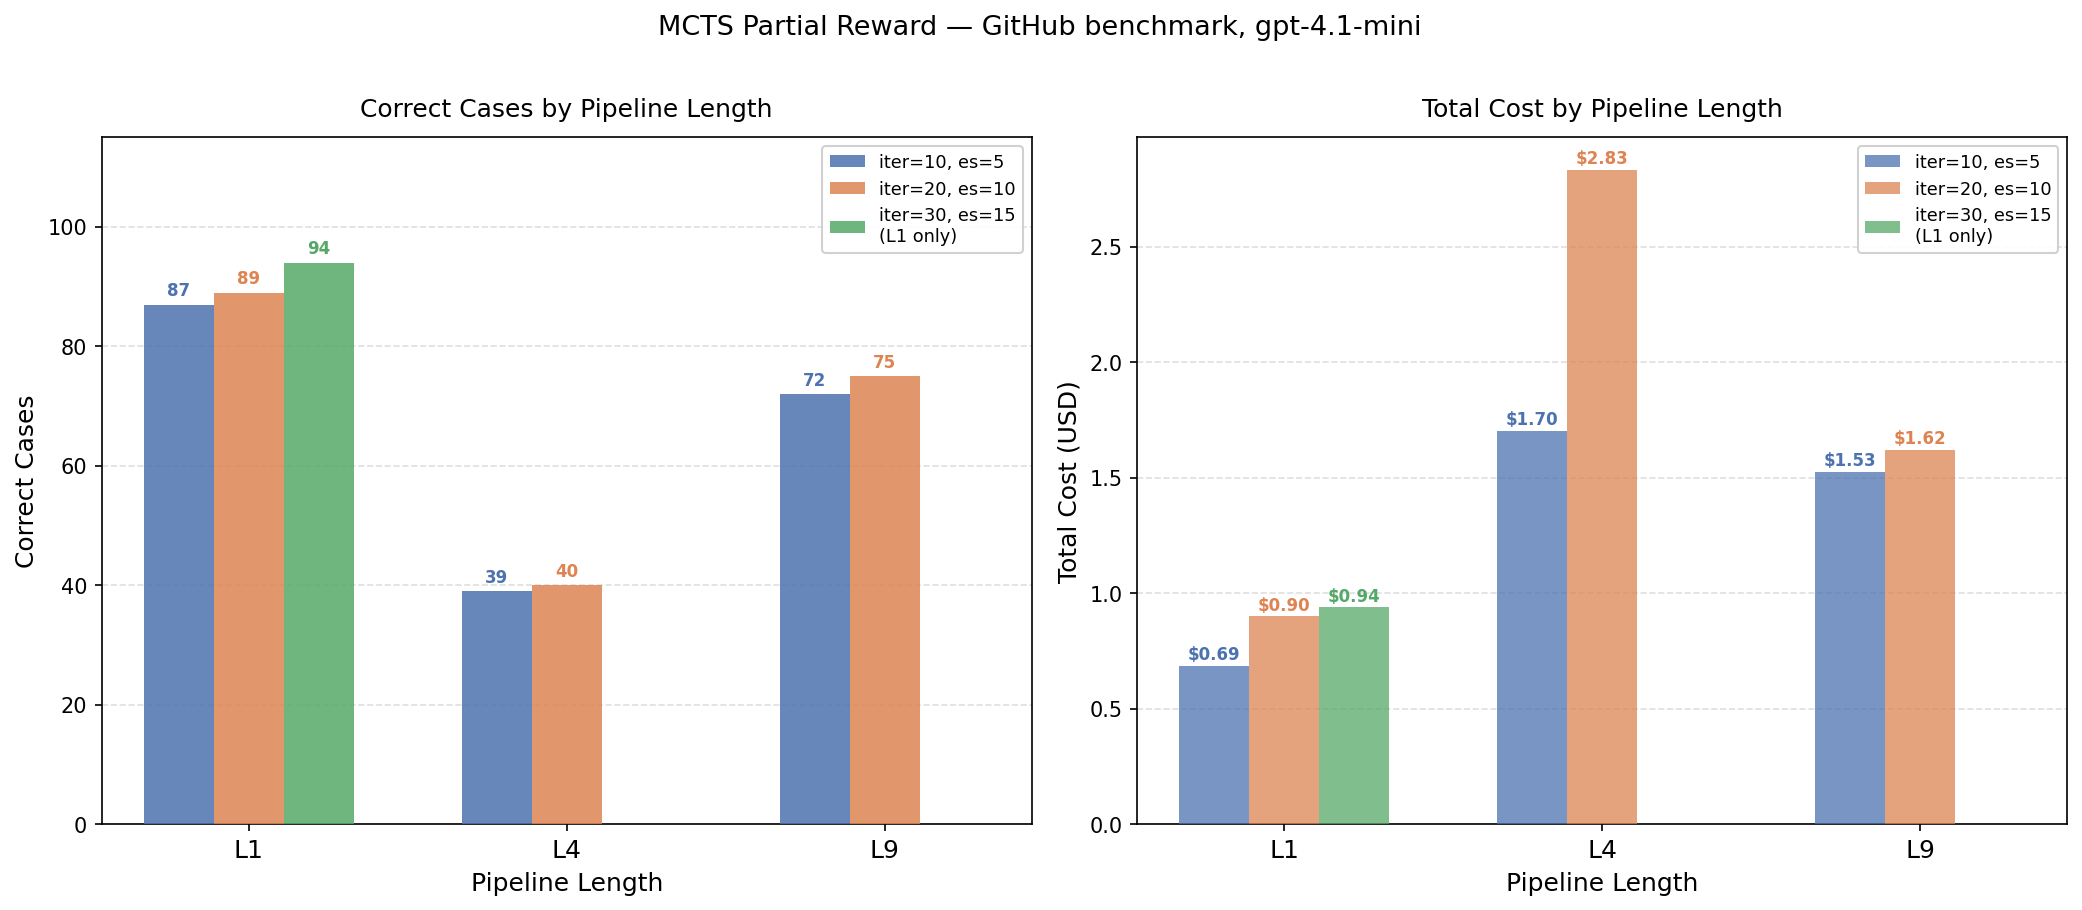
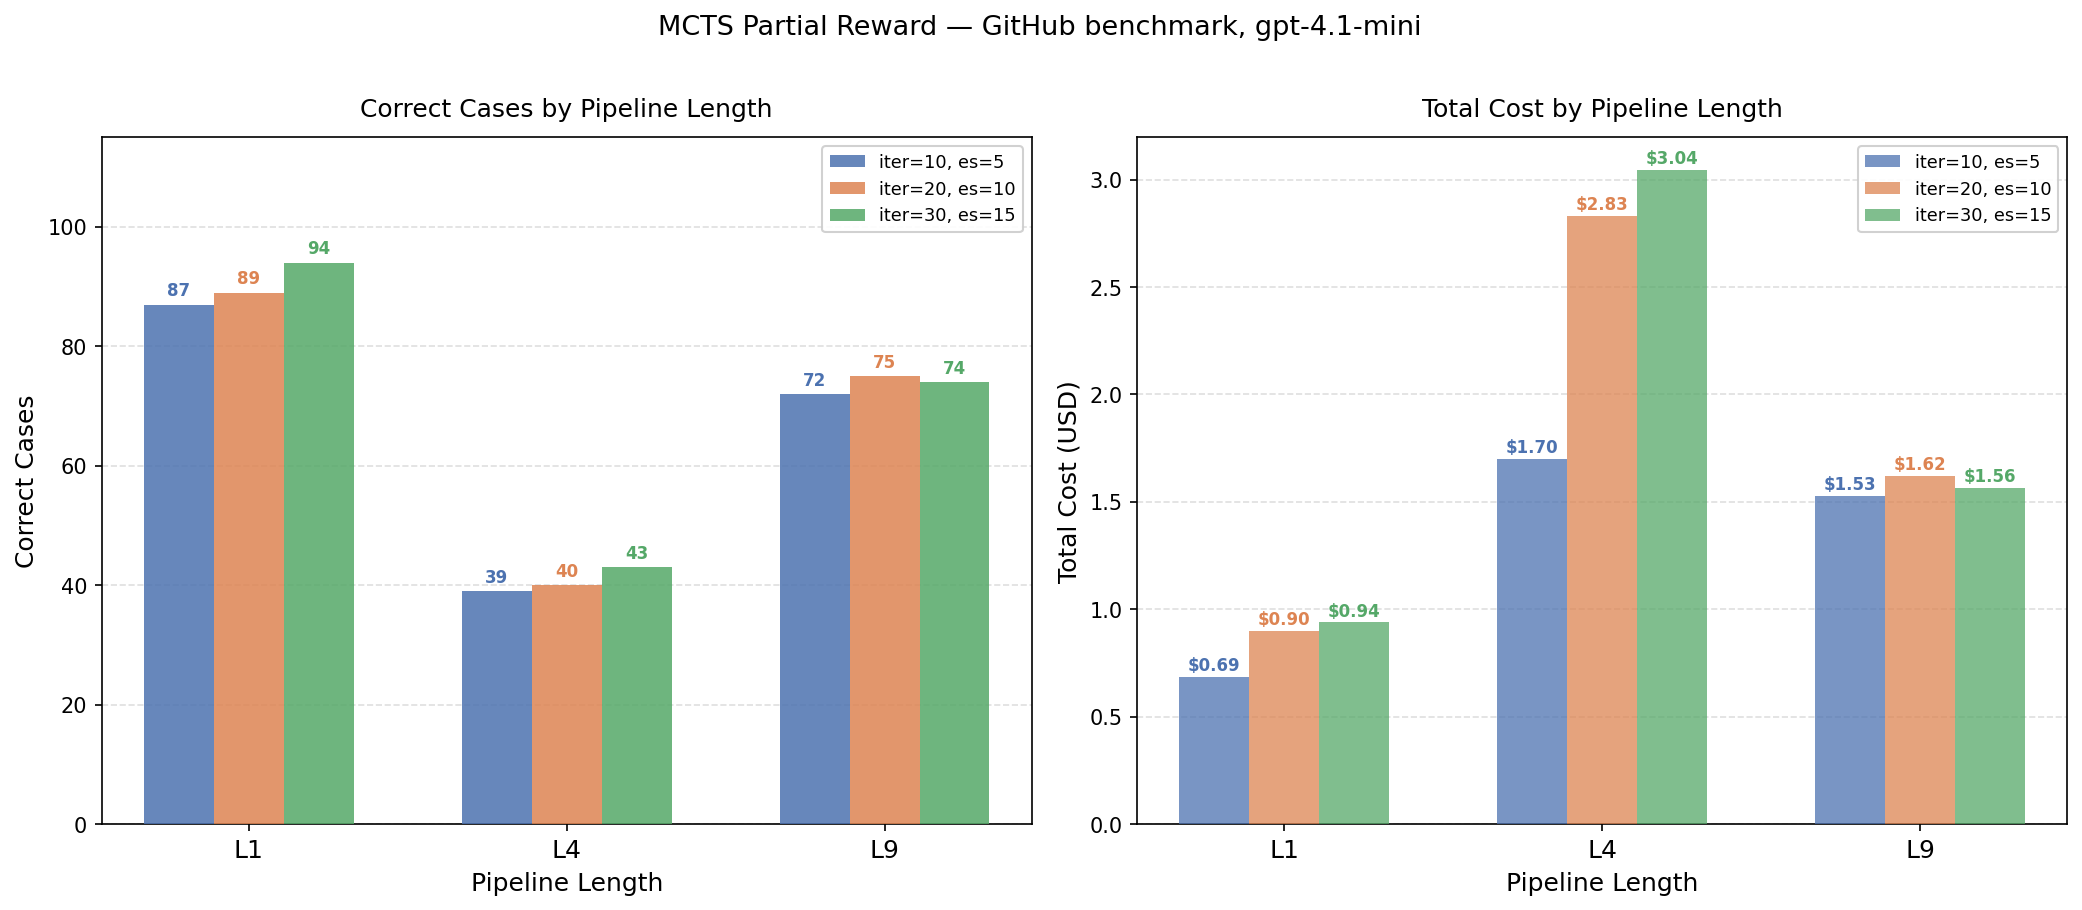
Latest MCTS code

diff --git a/Langraph/plot_partial_reward_experiments.py b/Langraph/plot_partial_reward_experiments.py
@@ -4,7 +4,7 @@ Chart: accuracy and cost across experiments (iter/early_stop configs) for L1, L4
 Experiments:
   iter10_es5  — L1, L4, L9  (default 10 iter / 5 early stop)
   iter20_es10 — L1, L4, L9
-  iter30_es15 — L1 only (still running for L4/L9)
+  iter30_es15 — L1, L4, L9
 """
 
 import os
@@ -34,6 +34,8 @@ EXPERIMENTS = {
             os.path.join(_RES, "mcts_github_partial_l1_iter30_es15_20260409_173849", "results_summary.csv"),
             os.path.join(_RES, "mcts_github_partial_l1_iter30_es15_20260410_080253", "results_summary.csv"),
         ],
+        "L4": os.path.join(_RES, "mcts_github_partial_l4_iter30_es15_20260410_081855", "results_summary.csv"),
+        "L9": os.path.join(_RES, "mcts_github_partial_l9_iter30_es15_20260410_125635", "results_summary.csv"),
     },
 }
 
@@ -41,7 +43,7 @@ LENGTHS = ["L1", "L4", "L9"]
 EXP_LABELS = {
     "iter10_es5":  "iter=10, es=5",
     "iter20_es10": "iter=20, es=10",
-    "iter30_es15": "iter=30, es=15\n(L1 only)",
+    "iter30_es15": "iter=30, es=15",
 }
 
 
